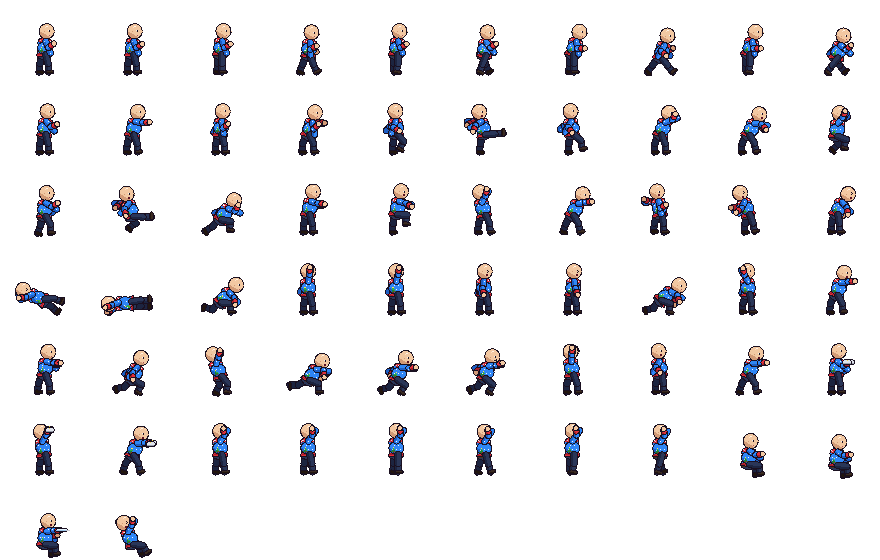
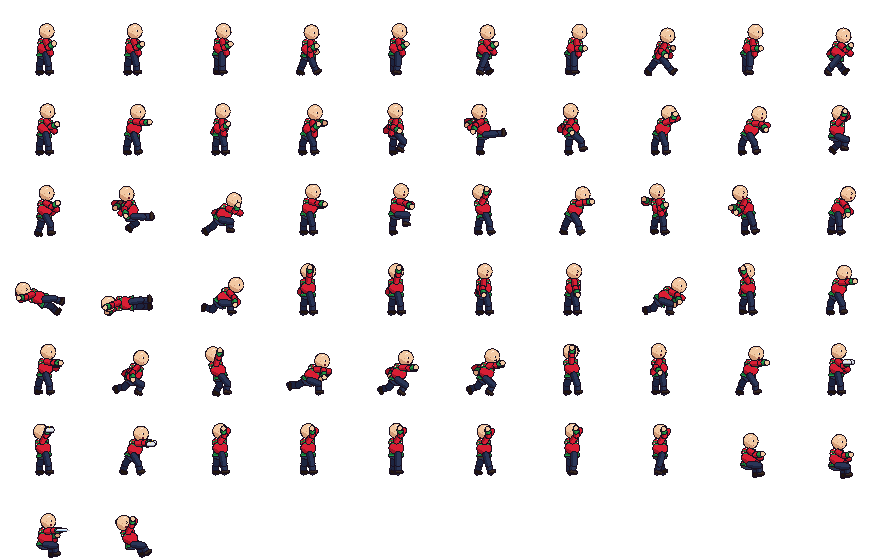
v0.10.2 "Red and Green": Wonderful Will in a classic red + green Christmas sweater, clean belly (Bill)
- red knit, green Fair Isle band (zigzag + snowflakes) on chest/shoulders only, green collar, cuffs, straight green hem band
- stomach is solid red: tree, star and all-over knit dots removed; clear waist over belt + navy pants
- brighter Christmas red + green trim keeps him apart from the red-flannel Visitor; card/HUD colour stays blue
- regenerated will.png (all frames incl. scooter rider) + HUD face/hurt face; portrait raises the band so it shows
- tests/v10_1.py sweater checks (red+green, pattern-free stomach, portrait); docs/v10_2_will_sweater.png; SW nbd2-app-v18

diff --git a/sw.js b/sw.js
@@ -1,7 +1,7 @@
 // Home-screen app support (n64-suite games). Network first, always: online play never sees a stale file. The small
 // code / data files (html, js, css, json, webmanifest) are kept in a cache only so the app can still open offline.
 // It also gives Chrome the fetch handler it wants before it offers "Install app" (beforeinstallprompt).
-const CACHE = 'nbd2-app-v17';
+const CACHE = 'nbd2-app-v18';
 const SMALL = /\.(?:html|js|css|json|webmanifest)$|\/$/;
 self.addEventListener('install', () => self.skipWaiting());
 self.addEventListener('activate', (e) => e.waitUntil(self.clients.claim()));

diff --git a/tools/chars.py b/tools/chars.py
@@ -69,7 +69,7 @@ def stripes(S, T, hip, neck, lean, b):
 
 WILL_BLUE = ("#2f86f6", "#1c5ec4")
 FLANNEL = ("#c03a30", "#8e2620")                                   # visitor's flannel shirt: red buffalo plaid (v0.7.1; was teal, read as a onesie with the jeans)
-FLANNEL_CHECK = ("#5a1a1a", "#3e1010", "#2a0c0c", "#1e0808")       # dark lines, near-black crossings   # Will: bright blue (v0.10.1: now an ugly Christmas sweater, xmas_sweater)
+FLANNEL_CHECK = ("#5a1a1a", "#3e1010", "#2a0c0c", "#1e0808")       # dark lines, near-black crossings   # Will: v0.10.2 red + green Christmas sweater (xmas_sweater); WILL_BLUE stays his select / HUD colour family
 
 
 def bald_shine(S, hc, r, b, pose):
@@ -350,37 +350,37 @@ def flannel_and_jeans(S, T, hip, neck, lean, b):
     S.line(at(hip, 5.9, w0), at(hip, 5.9, w1), "#6a1a18")
 
 
-# v0.10.1 (Bill): WONDERFUL WILL wears an ugly Christmas sweater ("Do you like my festive shirt?"). Bright blue knit (his colour,
-# and it keeps him apart from the red-flannel visitor) with a red rib hem, a red band with a white zigzag across the chest,
-# snowflake dots, and a little tree with a star on the belly. Christmas, not Halloween. Ends at the hips over his belt + navy pants.
-XMAS = {"red": ("#e0303a", "#a81e28"), "white": ("#f4f6fa", "#c8d0dc"), "green": ("#2fae4a", "#1e7e34"), "star": ("#ffe84a", "#d8b828"), "trunk": ("#7a4a22", "#5a3416")}
+# v0.10.2 (Bill: "Just do a red and green sweater, the belly looks weird."): WONDERFUL WILL's classic red + green Christmas
+# sweater. Red knit body and long sleeves, a green Fair Isle band (solid rows + a zigzag with white snowflake pixels) across the
+# chest and shoulders only, a few snowflakes on the shoulders, green crew collar, green cuffs and a plain straight green hem band
+# at the hips over his belt + navy pants. The stomach is a clean solid red area (no tree, no knit dots). The green trim and the
+# brighter, cooler Christmas red keep him apart from the red-flannel visitor (#c03a30 buffalo plaid + jeans).
+XMAS = {"red": ("#d81e34", "#a01426"), "green": ("#1f9a48", "#136a30"), "white": ("#f4f6fa", "#c8d0dc")}
+XMAS_RED = XMAS["red"]
 
 
 def xmas_sweater(S, T, hip, neck, lean, b):
-    """Torso design, in units of a 16 px torso (so the 2x HUD portrait gets the same sweater). f < 0 is the side that shows
-    past the front arm, so the tree sits there."""
+    """Chest / shoulder band + hem band + collar, in units of a 16 px torso (so the 2x HUD portrait gets the same sweater)."""
     up, fwd = vec(180 - lean, 1), vec(90 - lean, 1)
     at, _ = _frame(up, fwd, T)
     hw, top = b["torso_w"] / 2, b["torso"]
     k = top / 16.0
     sc, ss = b["shirt"], b["shirt_s"]
     def design(ui, fi):
-        if ui <= 0 or ui >= 16:                       # ribbed hem band at the hips + a red crew collar
-            return "red"
-        if ui in (12, 15):                            # chest band across the shoulders (shows in the HUD face too): red rows ...
-            return "red"
-        if ui == 14:                                  # ... with a white zigzag between them
-            return "white" if fi % 4 == 2 else "red"
-        if ui == 13:
-            return "white" if fi % 4 in (1, 3) else "red"
-        t = fi + 3                                    # the little tree, centred on the visible side
-        if ui == 6 and t == 0:
-            return "star"
-        if (ui == 5 and t == 0) or (ui in (3, 4) and abs(t) <= 1) or (ui == 2 and abs(t) <= 2):
-            return "red" if (ui, t) == (2, 1) else "white" if (ui, t) == (4, -1) else "green"
-        if ui == 1 and t == 0:
-            return "trunk"
+        if ui <= 0:                                   # plain straight hem band at the hips
+            return "green"
+        if ui <= 9:                                   # clean, solid red stomach
+            return None
+        if ui in (10, 13):                            # band edges
+            return "green"
+        if ui == 11:                                  # zigzag (lower points) with a snowflake between them
+            return "green" if fi % 4 == 0 else "white" if fi % 4 == 2 else None
+        if ui == 12:                                  # zigzag (upper points)
+            return "green" if fi % 4 in (1, 3) else None
+        if ui == 15:                                  # a few snowflakes on the shoulders
+            return "white" if fi % 4 == 1 else None
         return None
+    off = 3 if k > 1.5 else 0                         # the 2x HUD portrait only shows the shoulders: raise the band there
     seen = set()
     u = -1.6 * k
     while u < top + 1.0:
@@ -390,28 +390,12 @@ def xmas_sweater(S, T, hip, neck, lean, b):
             ix, iy = int(x), int(y)
             if (ix, iy) not in seen and 0 <= iy < S.h and 0 <= ix < S.w and S.p[iy][ix] in (sc, ss):
                 seen.add((ix, iy))
-                c = design(math.floor(u / k), math.floor(f / k))
+                ui = math.floor(u / k)
+                c = "green" if ui >= 16 else design(ui - off, math.floor(f / k))   # green crew collar
                 if c:
                     S.set(ix, iy, XMAS[c][1 if S.p[iy][ix] == ss else 0])
             f += 0.5
         u += 0.5
-
-
-def xmas_knit(img):
-    """Post-process a Will frame: white snowflake dots on a fixed grid over the blue knit (torso and sleeves), never on an edge."""
-    hx = lambda c: tuple(int(c[i:i + 2], 16) for i in (1, 3, 5))
-    b0, b1 = hx(WILL_BLUE[0]), hx(WILL_BLUE[1])
-    w0, w1 = hx(XMAS["white"][0]), hx(XMAS["white"][1])
-    px = img.load()
-    for y in range(1, img.height - 1):
-        for x in range(1, img.width - 1):
-            q = px[x, y][:3]
-            if q not in (b0, b1) or (x + (y // 4) * 2) % 4 or y % 4 != 1:
-                continue
-            if all(px[x + dx, y + dy][:3] in (b0, b1) for dx, dy in ((1, 0), (-1, 0), (0, 1), (0, -1))):
-                px[x, y] = (w0 if q == b0 else w1) + (255,)
-    return img
-
 
 def bodies():
     sk = SKIN
@@ -423,12 +407,12 @@ def bodies():
     B["kim"] = hero_body(thigh=9, shin=9, torso=15, head=6.6, uarm=7, farm=7, torso_w=11, arm_w=3.3, leg_w=4.6, skin=sk["fair"][0], skin_s=sk["fair"][1],
                          hair_c="#d8462a", hair_s="#9c2c1a", hair=hair_cap(top=-0.1, back=0.4), hair_back=ponytail,
                          freckles="#d08a6a", shoe="#ffffff", shoe_s="#b8c2d0", mouth="#c0505e")
-    # Will (v0.2.2): regular guy proportions, belt, navy pants. v0.10.1 (Bill): WONDERFUL WILL's ugly Christmas sweater (xmas_sweater):
-    # bright blue knit with long sleeves, red rib hem at the hips, zigzag chest band, snowflakes and a little tree.
+    # Will (v0.2.2): regular guy proportions, belt, navy pants. v0.10.2 (Bill): a classic red + green Christmas sweater
+    # (xmas_sweater): red knit with long sleeves, green Fair Isle band on the chest / shoulders, green collar, cuffs and hem band.
     B["will"] = hero_body(thigh=9, shin=8.5, torso=16, head=7, uarm=7, farm=7, arm_w=3.8, leg_w=5.2, torso_w=13, belly=1, fist=2.1,
-                          skin=sk["light"][0], skin_s=sk["light"][1], hair=bald_shine, shirt=WILL_BLUE[0], shirt_s=WILL_BLUE[1], sleeve=WILL_BLUE[0], sleeve_s=WILL_BLUE[1],
-                          vneck=False, crew="#1c5ec4", steth=True, belt="#4a3220", pants="#2a3658", pants_s="#1c2440", hem_c=XMAS["red"][1],
-                          shoe="#3a2a22", shoe_s="#22160e", badge=None, sleeve_len=1.8, pattern=xmas_sweater, cuff=XMAS["red"], post=xmas_knit)
+                          skin=sk["light"][0], skin_s=sk["light"][1], hair=bald_shine, shirt=XMAS_RED[0], shirt_s=XMAS_RED[1], sleeve=XMAS_RED[0], sleeve_s=XMAS_RED[1],
+                          vneck=False, crew="#136a30", steth=True, belt="#4a3220", pants="#2a3658", pants_s="#1c2440", hem_c=XMAS["green"][1],
+                          shoe="#3a2a22", shoe_s="#22160e", badge=None, sleeve_len=1.8, pattern=xmas_sweater, cuff=XMAS["green"])
     B["jackie"] = hero_body(thigh=12, shin=11.5, torso=17.5, head=6.4, uarm=8.5, farm=8.5, torso_w=11, arm_w=3.3, leg_w=4.7, skin=sk["tan"][0], skin_s=sk["tan"][1],
                             hair_c="#4a2a18", hair_s="#2e180c", hair=hair_cap(top=0.05, back=0.2, grow=2.2, bumps=1.3, fringe=0, seed=2),
                             shoe="#9a5ae0", shoe_s="#6a34a8", mouth="#b04a5a")

diff --git a/tests/v10_1.py b/tests/v10_1.py
@@ -1,6 +1,6 @@
 # v0.10.1: GINGER NERVOUS NICK, KILLER KIM, CHARGE JACKIE, WONDERFUL WILL. Names + personality roles, Bill's lines verbatim, ~30+ bubbles each
 # on the Nate / Heather triggers (+ drop / throw, Jackie's team-up line), lines fit a phone bubble, Nick's copper hair is not
-# Kim's red, Kim talks to the patient she just dropped, and the select / HUD / cutscene show the new names.
+# Kim's red, Kim talks to the patient she just dropped, Will's red + green sweater (v0.10.2: clean stomach), and the select / HUD / cutscene show the new names.
 # Screenshots -> tests/out/v101_*.png
 import time, sys, json
 from playwright.sync_api import sync_playwright
@@ -63,12 +63,25 @@ with sync_playwright() as p:
     check("kim: still her own red (not Nick's copper)", K['#d8462a'] > 10 and K['#e8842e'] == 0, K)
     dist = sum((int('e8842e'[i:i + 2], 16) - int('d8462a'[i:i + 2], 16)) ** 2 for i in (0, 2, 4)) ** 0.5
     check(f'nick vs kim hair colour distance {dist:.0f} (> 50)', dist > 50)
-    Wc = pg.evaluate(f"({COUNT})('will', 'idle', ['#2f86f6', '#1c5ec4', '#e0303a', '#a81e28', '#2fae4a', '#1e7e34', '#f4f6fa', '#c8d0dc', '#ffe84a', '#2a3658', '#1c2440', '#ff8a1e', '#e87a1a'])")
-    check('will: Christmas sweater (blue knit + red band/hem/cuffs + green tree + white snowflakes)', Wc['#2f86f6'] + Wc['#1c5ec4'] > 40 and Wc['#e0303a'] + Wc['#a81e28'] > 8 and Wc['#2fae4a'] + Wc['#1e7e34'] >= 3 and Wc['#f4f6fa'] + Wc['#c8d0dc'] >= 4, Wc)
-    check('will: navy pants kept, no pumpkin orange', Wc['#2a3658'] + Wc['#1c2440'] > 40 and Wc['#ff8a1e'] + Wc['#e87a1a'] == 0, Wc)
+    # v0.10.2 (Bill): classic red + green sweater, clean solid stomach (no tree / knit dots), green hem band over navy pants
+    Wc = pg.evaluate(f"({COUNT})('will', 'idle', ['#d81e34', '#a01426', '#1f9a48', '#136a30', '#f4f6fa', '#c8d0dc', '#2f86f6', '#1c5ec4', '#ffe84a', '#7a4a22', '#2a3658', '#1c2440', '#ff8a1e', '#e87a1a', '#c03a30', '#8e2620'])")
+    check('will: red + green Christmas sweater (red knit, green band / cuffs / hem)', Wc['#d81e34'] + Wc['#a01426'] > 60 and Wc['#1f9a48'] + Wc['#136a30'] >= 8, Wc)
+    check('will: clean front: no tree / star, no blue knit, only a few snowflake pixels', Wc['#ffe84a'] + Wc['#7a4a22'] + Wc['#2f86f6'] + Wc['#1c5ec4'] == 0 and Wc['#f4f6fa'] + Wc['#c8d0dc'] <= 8, Wc)
+    check("will: navy pants kept, no pumpkin orange, not the visitor's flannel red", Wc['#2a3658'] + Wc['#1c2440'] > 40 and Wc['#ff8a1e'] + Wc['#e87a1a'] == 0 and Wc['#c03a30'] + Wc['#8e2620'] == 0, Wc)
+    BEL = """(() => { const G = __nbd.G, A = G.atlas.chars.will, [cw, ch] = A.cell, i = A.anims.idle.s, sx = (i % A.cols) * cw, sy = Math.floor(i / A.cols) * ch;
+      const c = document.createElement('canvas'); c.width = cw; c.height = ch; const x = c.getContext('2d', { willReadFrequently: true }); x.drawImage(G.img.will, sx, sy, cw, ch, 0, 0, cw, ch);
+      const d = x.getImageData(0, 0, cw, ch).data, hx = (j) => '#' + [d[j], d[j + 1], d[j + 2]].map(v => v.toString(16).padStart(2, '0')).join('');
+      let y0 = ch, y1 = -1; for (let y = 0; y < ch; y++) for (let q = 0; q < cw; q++) { const h = hx((y * cw + q) * 4); if (h === '#d81e34' || h === '#a01426') { y0 = Math.min(y0, y); y1 = Math.max(y1, y); } }
+      const m0 = Math.round(y0 + (y1 - y0) * 0.45), m1 = Math.round(y0 + (y1 - y0) * 0.8); const odd = {};
+      for (let y = m0; y <= m1; y++) for (let q = 0; q < cw; q++) { const j = (y * cw + q) * 4; if (d[j + 3] < 200) continue; const h = hx(j); if (!['#1f9a48', '#136a30', '#f4f6fa', '#c8d0dc'].includes(h)) continue;
+        let cuff = false; for (let dy = -3; dy <= 3; dy++) for (let dx = -4; dx <= 4; dx++) { const yy = y + dy, xx = q + dx; if (yy < 0 || yy >= ch || xx < 0 || xx >= cw) continue; const k = hx((yy * cw + xx) * 4); if (k === '#f2c8a2' || k === '#d29a76') cuff = true; }
+        if (!cuff) odd[h] = (odd[h] || 0) + 1; }  // a green cuff next to his fist is the sleeve, not the stomach
+      return { y0, y1, m0, m1, odd }; })()"""
+    bel = pg.evaluate(BEL)
+    check('will: the stomach band of the sweater is plain red (no pattern pixels)', not bel['odd'], bel)
     Wf = pg.evaluate("""(() => { const G = __nbd.G, r = G.atlas.sprites.rects.face_will, c = document.createElement('canvas'); c.width = r[2]; c.height = r[3]; const x = c.getContext('2d'); x.drawImage(G.img.sprites, r[0], r[1], r[2], r[3], 0, 0, r[2], r[3]);
-      const d = x.getImageData(0, 0, r[2], r[3]).data; let n = 0; for (let j = 0; j < d.length; j += 4) if (d[j] === 0xe0 && d[j + 1] === 0x30 && d[j + 2] === 0x3a) n++; return n; })()""")
-    check('will: HUD face shows the sweater collar', Wf > 4, Wf)
+      const d = x.getImageData(0, 0, r[2], r[3]).data; let n = 0, g = 0; for (let j = 0; j < d.length; j += 4) { if (d[j] === 0xd8 && d[j + 1] === 0x1e && d[j + 2] === 0x34) n++; if (d[j] === 0x1f && d[j + 1] === 0x9a && d[j + 2] === 0x48) g++; } return [n, g]; })()""")
+    check('will: HUD face shows the red sweater with green trim', Wf[0] > 10 and Wf[1] > 4, Wf)
     key(pg, 'Enter', after=0.8); pg.screenshot(path='tests/out/v101_select.png'); pg.close()
     # ---------------------------------------------------------------- B: bubbles in play (desktop + phone width)
     for vw, tag in ((960, 'desk'), (740, 'phone')):

diff --git a/AGENTS.md b/AGENTS.md
@@ -8,7 +8,7 @@ A 1990s arcade beat 'em up in the spirit of Golden Axe and the TMNT and Simpsons
 their way through hospital floors full of comedic patients. Plain HTML5 Canvas 2D plus ES modules. No build step
 and no dependencies at runtime. Live on GitHub Pages: https://unclebill-spec.github.io/nicks-bad-day-2/
 
-## Current state (2026-10-06, v0.10.1)
+## Current state (2026-10-06, v0.10.2)
 - **v0.10.1 nicknames + personalities (Bill).** `HEROES[id].name` is the nickname, `.short` the plain name (HUD / END fall back to it
   when space is tight), `.role` the personality shown on the select card: NERVOUS NICK (Pessimist), KILLER KIM (Cheerful), WONDERFUL
   WILL (Top Dog), CHARGE JACKIE (Helpful), NASTY NATE (Lazy), HEATHER (Tough). Don't rename them back.
@@ -23,10 +23,13 @@ and no dependencies at runtime. Live on GitHub Pages: https://unclebill-spec.git
     `fit()` uses 8 px, else the narrow font (PESSIMIST, WONDERFUL, CHEERFUL on 62 px cards). THE END line reads "NERVOUS NICK AND THE CREW SURVIVED THE SHIFT." (2 rows if narrow).
   - **Nick is a ginger:** `B["nick"]` hair `NICK_GINGER` (#e8842e copper-orange, shade #b0581c) + light freckles (#e2aa88), deliberately
     more orange than Kim's red (#d8462a / #9c2c1a, ponytail). Glasses, build, navy scrubs, orange shoes unchanged. Don't make him blond.
-  - **Will's ugly Christmas sweater:** `B["will"]`: bright blue knit (`WILL_BLUE`), long sleeves (`sleeve_len` 1.8) with red ribbed
-    cuffs (new rig `cuff` option), `pattern=xmas_sweater` (red rib hem at the hips + collar, red chest band with a white zigzag, a
-    little tree with a star on the visible side; designed on a 16 px torso so the 2x portrait matches) and `post=xmas_knit` (white
-    snowflake dots on the blue; make_art.py now honours a body's `post`). Belt + navy pants show under the hem. Christmas only, no pumpkins.
+  - **Will's red + green Christmas sweater (v0.10.2, Bill: "the belly looks weird"):** `B["will"]`: red knit (`XMAS["red"]` #d81e34 /
+    #a01426), long sleeves (`sleeve_len` 1.8) with green cuffs (rig `cuff` option), `pattern=xmas_sweater`: a green Fair Isle band on
+    the chest / shoulders only (rows 10-13 of a 16 px torso: solid green, zigzag + white snowflake, zigzag, solid green), shoulder
+    snowflakes, green collar, and a plain straight green hem band at the hips over the belt + navy pants. **Keep the stomach solid
+    red** (no tree, no knit dots; tests/v10_1.py checks it). The 2x HUD portrait raises the band 3 rows so it shows. `xmas_knit` and
+    the tree are gone; make_art.py still honours a body's `post`. Christmas only, no pumpkins; card / HUD colour stays blue.
+    Before/after: docs/v10_2_will_sweater.png.
   - Docs: docs/v10_1_nick_ginger.png, docs/v10_1_select_nick.png, docs/v10_1_select_phone.png, docs/v10_1_will_sweater.png, docs/v10_1_bubbles.png, docs/v10_1_crew.gif. Tests: tests/v10_1.py.
 - **v0.10 HEATHER (6th playable nurse, `HEROES.heather`, last in `HERO_ORDER`):**
   - **Look:** `B["heather"]` in tools/chars.py: blonde (`HEATHER_HAIR`), long hair worn down (`long_hair()` hair_back), royal blue
@@ -157,7 +160,7 @@ and no dependencies at runtime. Live on GitHub Pages: https://unclebill-spec.git
 - **6 heroes:**
   - Nervous Nick (Pessimist): balanced, Crash Cart special. Ginger (v0.10.1: copper-orange hair, light freckles), glasses, navy scrubs, orange shoes.
   - Killer Kim (Cheerful): fast, Whirlwind Kick. Red hair in a ponytail. Sweet as pie while she flattens people.
-  - Wonderful Will (Top Dog): power, Body Slam, big throws. Bald (skin-tone head with a shine). v0.10.1: an ugly Christmas sweater (bright blue knit, red cuffs / band / hem, white zigzag + snowflakes, a little tree) ending at the hips over a belt and dark navy pants. His stat color is blue. Christmas only: no orange/Halloween look, no padded suit/armor look.
+  - Wonderful Will (Top Dog): power, Body Slam, big throws. Bald (skin-tone head with a shine). v0.10.2: a classic red and green Christmas sweater (red knit, green chest/shoulder Fair Isle band with white snowflakes, green collar, cuffs and a straight green hem band at the hips; plain red stomach) over a belt and dark navy pants. His stat color is blue. Christmas only: no orange/Halloween look, no padded suit/armor look.
   - Charge Jackie (Helpful): reach, Clipboard Spin, strong jump and dash. Always offering to pitch in.
   - Nasty Nate (v0.8): lazy; longest reach, slowest, Rolling Chair special, speech bubbles. Tall, glasses, ponytail, teal scrubs.
   - Heather (v0.10): fast and tough, mid power; Running Clothesline special, snarky speech bubbles. Blonde, long hair, royal blue scrubs.
@@ -291,7 +294,7 @@ Screenshots go to `tests/out/`, which is git-ignored. `docs/screenshots.png`, `d
 | `src/cutscene.js` | v0.4 shift-change comic cutscenes (`makeCut`/`updateCut`/`drawCut`, scripts start/boss/lunch/next) |
 | `src/bonus.js` | v0.4 Breakroom Bonus round: `buildBreakroom`, `startBonus`, thief AI, `updateBonus`, bonus HUD, `bonusRows` for the tally |
 | `src/scooter.js` | v0.9 Scooter Run driving level: course, riders, hazards, patients, Motorcart Marv, parallax drawing, HUD, tally rows, test bot |
-| `sw.js`, `app.webmanifest`, `icons/` | PWA (cache name `nbd2-app-vN`, now v17: **bump N on every release**) |
+| `sw.js`, `app.webmanifest`, `icons/` | PWA (cache name `nbd2-app-vN`, now v18: **bump N on every release**) |
 
 ## Bill's standing preferences
 - **Outfit style rule (Bill, v0.8.1):** every character's clothes read as a **separate top and bottom with a visible waist**

diff --git a/CHANGELOG.md b/CHANGELOG.md
@@ -2,6 +2,20 @@
 
 All notable changes to Nick's Very Bad, Terrible Bad Day Part II. Dates are America/New_York.
 
+## 2026-10-06: v0.10.2 "Red and Green" (Bill: "Just do a red and green sweater, the belly looks weird.")
+- **Wonderful Will's sweater is now a classic red and green Christmas sweater:** a red knit body and long sleeves, a green Fair Isle
+  band across the chest and shoulders (two solid green rows with a green zigzag between them and a white snowflake pixel in each
+  gap), a few white snowflakes on the shoulders, a green crew collar and green cuffs.
+- **Clean belly:** the little tree, the star and the all-over snowflake dots are gone. The stomach is one solid red area, and the
+  sweater ends in a plain straight green hem band at the hips over his belt and navy pants, so there's a clear waist and no
+  bulge, diaper or onesie look. Same stocky build and front silhouette as his old plain shirt.
+- His brighter, cooler Christmas red (#d81e34) plus the green trim keep him apart from the red buffalo-plaid Visitor (#c03a30,
+  jeans, beard). His select-card / HUD colour stays blue.
+- Regenerated every Will frame (walk, attacks, Body Slam, scooter rider and the rest), his HUD face and hurt face; the select card,
+  title line-up, cutscenes, tallies and THE END all draw from these. The HUD portrait shows the chest band (it only shows the shoulders).
+- Service worker cache `nbd2-app-v18`. tests/v10_1.py checks the red + green sweater, a pattern-free stomach and the portrait.
+  Docs: `docs/v10_2_will_sweater.png` (v0.10.1 vs v0.10.2: HUD face + hurt face, idle, walk, punch, scooter).
+
 ## 2026-10-06: v0.10.1 "Nicknames" (Bill: ginger Nick, then a nickname + personality for four nurses, and Will's Christmas sweater)
 All six nurses now have a nickname and a personality on the select card: **Nervous Nick** (Pessimist), **Killer Kim** (Cheerful),
 **Wonderful Will** (Top Dog), **Charge Jackie** (Helpful), **Nasty Nate** (Lazy) and **Heather** (Tough). Stats and moves are unchanged.
